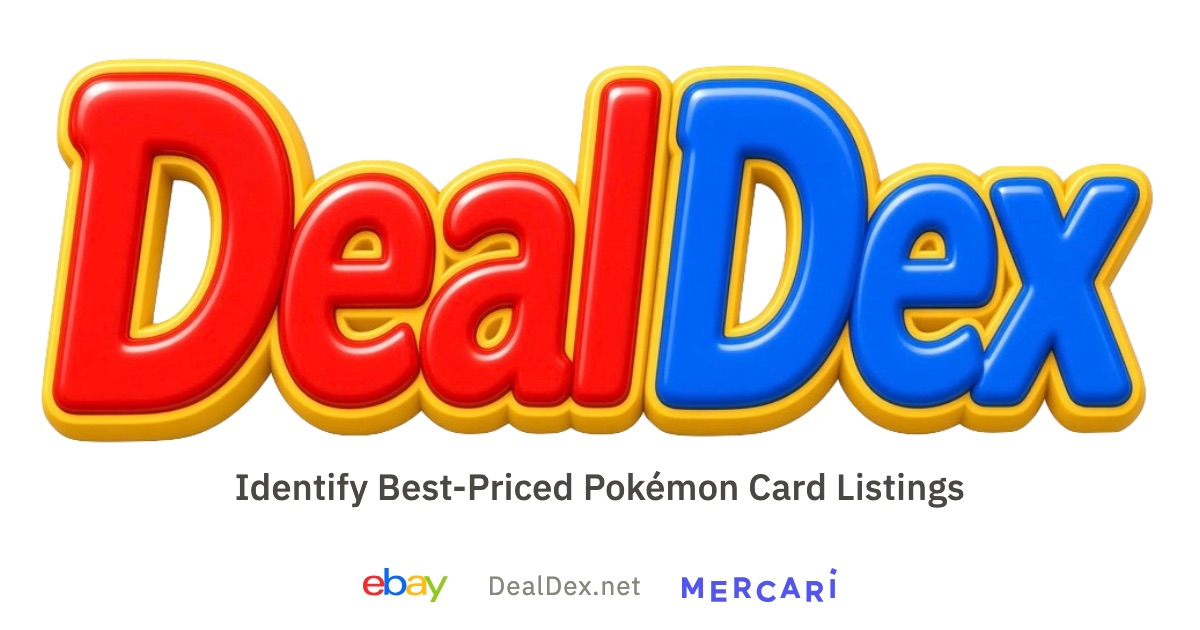
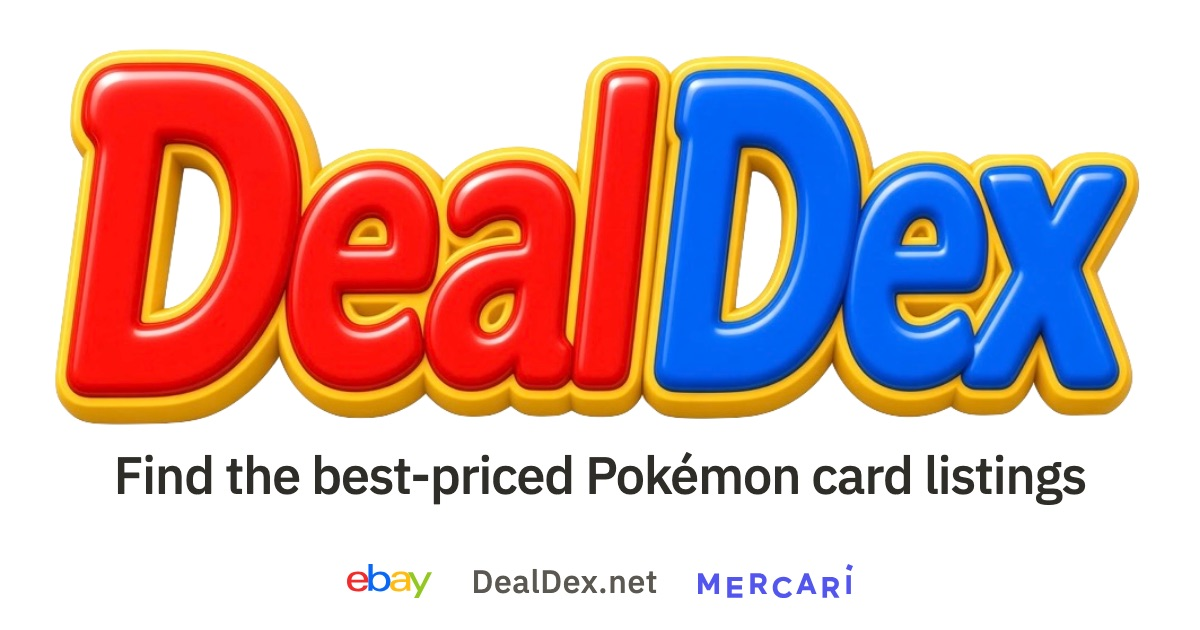
Rewrite OG subtitle and re-render share card (#160)
Sentence-case Find the best-priced Pokémon card listings, larger type, DealDex.net between marketplace marks.

diff --git a/scripts/og-dealdex.html b/scripts/og-dealdex.html
@@ -14,7 +14,7 @@
         width: 1200px;
         height: 630px;
         box-sizing: border-box;
-        padding: 24px 28px 100px;
+        padding: 20px 24px 108px;
         background: #ffffff;
         position: relative;
         display: flex;
@@ -25,20 +25,20 @@
       }
       .wordmark {
         display: block;
-        width: 1140px;
+        width: 1160px;
         height: auto;
-        max-height: 430px;
+        max-height: 400px;
         object-fit: contain;
         object-position: center;
       }
       p {
-        margin: 10px 0 0;
-        font-size: 36px;
+        margin: 8px 0 0;
+        font-size: 52px;
         font-weight: 500;
-        color: #4a4842;
-        letter-spacing: 0.01em;
-        max-width: 1080px;
-        line-height: 1.2;
+        color: #2e2d28;
+        letter-spacing: -0.02em;
+        max-width: 1100px;
+        line-height: 1.15;
         text-align: center;
       }
       .foot {
@@ -57,17 +57,17 @@
         width: auto;
       }
       .domain {
-        color: #8a877e;
-        font-size: 26px;
-        font-weight: 400;
-        letter-spacing: 0.04em;
+        color: #5a5850;
+        font-size: 32px;
+        font-weight: 500;
+        letter-spacing: 0.02em;
       }
     </style>
   </head>
   <body>
     <div class="frame">
       <img class="wordmark" src="../public/marks/dealdex-wordmark.png" alt="DealDex" />
-      <p>Identify Best-Priced Pokémon Card Listings</p>
+      <p>Find the best-priced Pokémon card listings</p>
       <div class="foot">
         <img src="../public/marks/ebay.svg" alt="eBay" />
         <span class="domain">DealDex.net</span>

diff --git a/src/routes/__root.tsx b/src/routes/__root.tsx
@@ -13,7 +13,7 @@ import appCss from "../styles.css?url";
 
 const APP_NAME = "DealDex";
 const host = import.meta.env.VITE_PUBLIC_HOSTNAME || "dealdex.net";
-const ogImage = `https://${host}/og.jpg?v=share-20260823b`;
+const ogImage = `https://${host}/og.jpg?v=share-20260823c`;
 
 export const Route = createRootRoute({
   head: () => ({

diff --git a/src/lib/copy.ts b/src/lib/copy.ts
@@ -1,5 +1,5 @@
 /** User-facing DealDex subtitle.  One sentence — no trailing period. */
-export const APP_SUBTITLE = "Identify Best-Priced Pokémon Card Listings";
+export const APP_SUBTITLE = "Find the best-priced Pokémon card listings";
 
 /** Public host, mixed case for display. */
 export const APP_HOST = "DealDex.net";

diff --git a/native/ios/DealDex/DealDexBrand.swift b/native/ios/DealDex/DealDexBrand.swift
@@ -1,7 +1,7 @@
 import SwiftUI
 
 enum DealDexCopy {
-    static let subtitle = "Identify Best-Priced Pokémon Card Listings"
+    static let subtitle = "Find the best-priced Pokémon card listings"
 }
 
 /// Official title wordmark (red Deal + blue Dex, yellow rim). Not the home-screen AppIcon.

diff --git a/STATUS.md b/STATUS.md
@@ -90,8 +90,9 @@ All / Deals / Verified plus compact filter selects stay in the same card.
 Desktop and iPad show two listing cards per row (`md:grid-cols-2`, iOS
 `horizontalSizeClass == .regular`, Android `screenWidthDp >= 600`).
 
-OG share card: centered 1140px wordmark, 36px subtitle, eBay + DealDex.net + Mercari
-footer.  Re-render: `node scripts/render-og.mjs`.  Cache-bust `og.jpg?v=share-20260823b`.
+OG share card: 1160px centered wordmark, 52px subtitle
+("Find the best-priced Pokémon card listings"), DealDex.net between eBay and Mercari.
+Re-render: `node scripts/render-og.mjs`.  Cache-bust `og.jpg?v=share-20260823c`.
 
 
 ## 2026-08-20 CURSOR — transparent DD favicon + ST-grid AppIcon

diff --git a/README.md b/README.md
@@ -1,6 +1,6 @@
 # DealDex
 
-Identify Best-Priced Pokémon Card Listings.  Scan live eBay and Mercari Buy It Now singles, then score the ask against TCGPlayer, Cardmarket, TCGCSV, eBay solds, and optional paid desks (JustTCG, PriceCharting, pokemontcg.io).
+Find the best-priced Pokémon card listings.  Scan live eBay and Mercari Buy It Now singles, then score the ask against TCGPlayer, Cardmarket, TCGCSV, eBay solds, and optional paid desks (JustTCG, PriceCharting, pokemontcg.io).
 
 Website name: **DealDex**.  Android and iPhone apps scan on the device.  They do not wrap the website.  API keys live on the phone; sign-in is optional if you want a backup.
 

diff --git a/docs/store-listing.md b/docs/store-listing.md
@@ -31,11 +31,11 @@ DealDex
 Best-priced card listings
 
 App Store subtitle is capped at 30 characters.  The in-app, website, and OG
-subtitle is Identify Best-Priced Pokémon Card Listings (43 characters).
+subtitle is Find the best-priced Pokémon card listings (42 characters).
 
 ## Promotional text
 
-Identify Best-Priced Pokémon Card Listings.  Scan live eBay and Mercari singles, then score the ask against TCGPlayer, Cardmarket, sold comps, and PriceCharting.
+Find the best-priced Pokémon card listings.  Scan live eBay and Mercari singles, then score the ask against TCGPlayer, Cardmarket, sold comps, and PriceCharting.
 
 ## Description
 

diff --git a/AGENTS.md b/AGENTS.md
@@ -1,7 +1,7 @@
 # DealDex — agent notes
 
-Pokémon listing desk.  User-facing subtitle: **Identify Best-Priced Pokémon Card
-Listings**.  Scan live eBay and Mercari Buy It Now singles, then score
+Pokémon listing desk.  User-facing subtitle: **Find the best-priced Pokémon card
+listings**.  Scan live eBay and Mercari Buy It Now singles, then score
 the ask against TCGPlayer, Cardmarket, TCGCSV, eBay solds, and optional paid
 desks. Website name **DealDex**. Android and iPhone apps scan on the device;
 they do not wrap the website. API keys live on the phone; sign-in is optional

diff --git a/native/README.md b/native/README.md
@@ -39,7 +39,7 @@ the isolated transparent DD mark.  Do not put the in-app wordmark on the home
 screen.
 
 In-app / web **title** is `DealDexWordmark` (glossy 3D DealDex PNG).  Scan subtitle
-is Identify Best-Priced Pokémon Card Listings, not serif "Find the best listings."
+is Find the best-priced Pokémon card listings, not serif "Find the best listings."
 
 ```
 xcodebuild -project native/ios/DealDex.xcodeproj -scheme DealDex \
